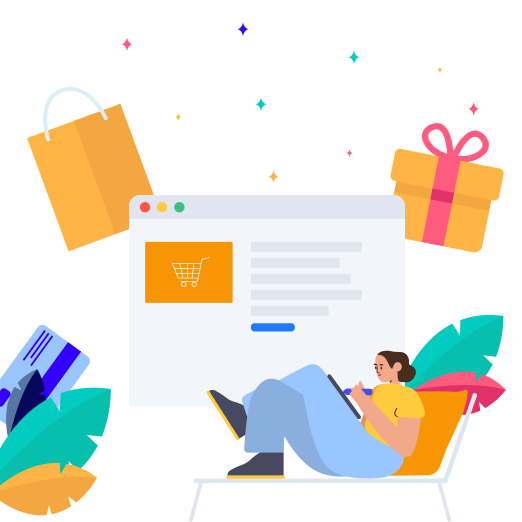
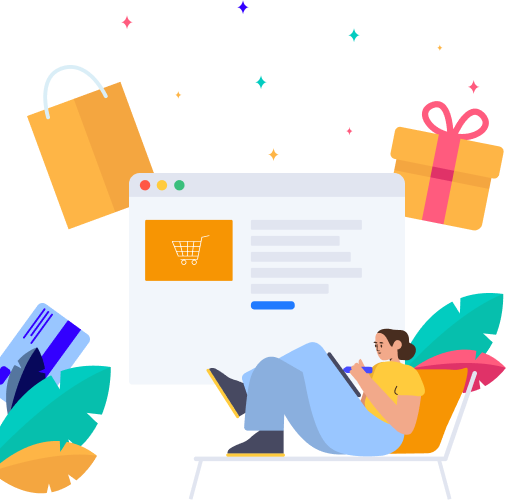
second commit

diff --git a/index.html b/index.html
@@ -29,7 +29,7 @@
                                 <div class="container-fluid">
                                     <div class="row">
                                         <div class="col-lg-6 d-flex flex-column ">
-                                            <button type="button" class="close mr-auto my-3 mx-4" data-dismiss="modal"
+                                            <button type="button" class="close mr-auto mt-3 mx-4" data-dismiss="modal"
                                                 aria-label="Close">
                                                 <span aria-hidden="true">&times;</span>
                                             </button>
@@ -54,9 +54,12 @@
                                                     </p>
                                                 </div>
                                             </div>
-                                            <div class="d-flex my-4 mx-4">
-                                                <a class="btn btn-primary next" href="" role="button">Далі</a>
-                                                <ol class="carousel-indicators">
+                                            <div class="d-flex my-auto mx-4">
+                                                <a class="btn btn-primary next carousel-control"
+                                                    href="#carouselExampleIndicators" role="button"
+                                                    data-slide="next">Далі</a>
+
+                                                <ol class="carousel-indicators my-auto">
                                                     <li data-target="#carouselExampleIndicators" data-slide-to="0"
                                                         class="active"></li>
                                                     <li data-target="#carouselExampleIndicators" data-slide-to="1"></li>
@@ -65,16 +68,16 @@
                                             </div>
                                         </div>
                                         <div class="col-lg-6 d-none d-lg-block bg-primary p-0 m-0">
-                                            <img class="img-fluid d-block w-100" src="./img/Group.png" alt="">
+                                            <img class="img-fluid w-100" src="./img/Group.png" alt="">
                                         </div>
                                     </div>
                                 </div>
                             </div>
-                            <div class="carousel-item">
+                            <div class="carousel-item ">
                                 <div class="container-fluid">
                                     <div class="row">
                                         <div class="col-lg-6 d-flex flex-column ">
-                                            <button type="button" class="close mr-auto my-3 mx-4" data-dismiss="modal"
+                                            <button type="button" class="close mr-auto mt-3 mx-4" data-dismiss="modal"
                                                 aria-label="Close">
                                                 <span aria-hidden="true">&times;</span>
                                             </button>
@@ -92,12 +95,14 @@
                                                     </p>
                                                 </div>
                                             </div>
-                                            <div class="d-flex my-4 mx-4">
-                                                <a class="btn btn-link prev" href="" role="button">Назад</a>
-
-                                                <a class="btn btn-primary next mx-4" href="" role="button">Далі</a>
-
-                                                <ol class="carousel-indicators">
+                                            <div class="d-flex my-auto mx-4">
+                                                <a class="btn btn-link prev carousel-control"
+                                                    href="#carouselExampleIndicators" role="button"
+                                                    data-slide="prev">Назад</a>
+                                                <a class="btn btn-primary next carousel-control ml-4"
+                                                    href="#carouselExampleIndicators" role="button"
+                                                    data-slide="next">Далі</a>
+                                                <ol class="carousel-indicators my-auto">
                                                     <li data-target="#carouselExampleIndicators" data-slide-to="0">
                                                     </li>
                                                     <li data-target="#carouselExampleIndicators" data-slide-to="1"
@@ -105,20 +110,19 @@
                                                     <li data-target="#carouselExampleIndicators" data-slide-to="2">
                                                     </li>
                                                 </ol>
-
                                             </div>
                                         </div>
                                         <div class="col-lg-6 d-none d-lg-block  bg-primary p-0 m-0">
-                                            <img class="img-fluid d-block w-100" src="./img/1.gif" alt="">
+                                            <img class="img-fluid w-100" src="./img/1.gif" alt="">
                                         </div>
                                     </div>
                                 </div>
                             </div>
-                            <div class="carousel-item">
-                                <div class="container-fluid">
+                            <div class="carousel-item ">
+                                <div class=" container-fluid">
                                     <div class="row">
                                         <div class="col-lg-6 d-flex flex-column ">
-                                            <button type="button" class="close mr-auto my-3 mx-4" data-dismiss="modal"
+                                            <button type="button" class="close mr-auto mt-3 mx-4" data-dismiss="modal"
                                                 aria-label="Close">
                                                 <span aria-hidden="true">&times;</span>
                                             </button>
@@ -138,10 +142,11 @@
                                                     </p>
                                                 </div>
                                             </div>
-                                            <div class="d-flex my-4 mx-4">
-                                                <a class="btn btn-link prev" href="" role="button">Назад</a>
-
-                                                <ol class="carousel-indicators">
+                                            <div class="d-flex my-auto mx-4">
+                                                <a class="btn btn-link prev carousel-control"
+                                                    href="#carouselExampleIndicators" role="button"
+                                                    data-slide="prev">Назад</a>
+                                                <ol class="carousel-indicators my-auto">
                                                     <li data-target="#carouselExampleIndicators" data-slide-to="0"></li>
                                                     <li data-target="#carouselExampleIndicators" data-slide-to="1"></li>
                                                     <li data-target="#carouselExampleIndicators" data-slide-to="2"
@@ -150,7 +155,7 @@
                                             </div>
                                         </div>
                                         <div class="col-lg-6 d-none d-lg-block  bg-primary p-0 m-0">
-                                            <img class="img-fluid d-block w-100" src="./img/2.gif" alt="">
+                                            <img class="img-fluid w-100" src="./img/2.gif" alt="">
                                         </div>
                                     </div>
                                 </div>

diff --git a/style.css b/style.css
@@ -60,8 +60,12 @@ body {
     line-height: 20px;
 }
 
+.carousel-inner {
+    height: 522px;
+}
+
 img {
-    min-height: 522px;
+    min-height: 100%;
 }
 
 .col-lg-6 {
@@ -70,5 +74,13 @@ img {
 
 .carousel-indicators li {
     background-color: #1F7AFF;
+    border-radius: 50%;
+    width: 6px;
+    height: 6px;
+    margin: 0 6px;
+}
 
+.carousel-indicators {
+    position: static;
+    margin: 0 40px;
 }
